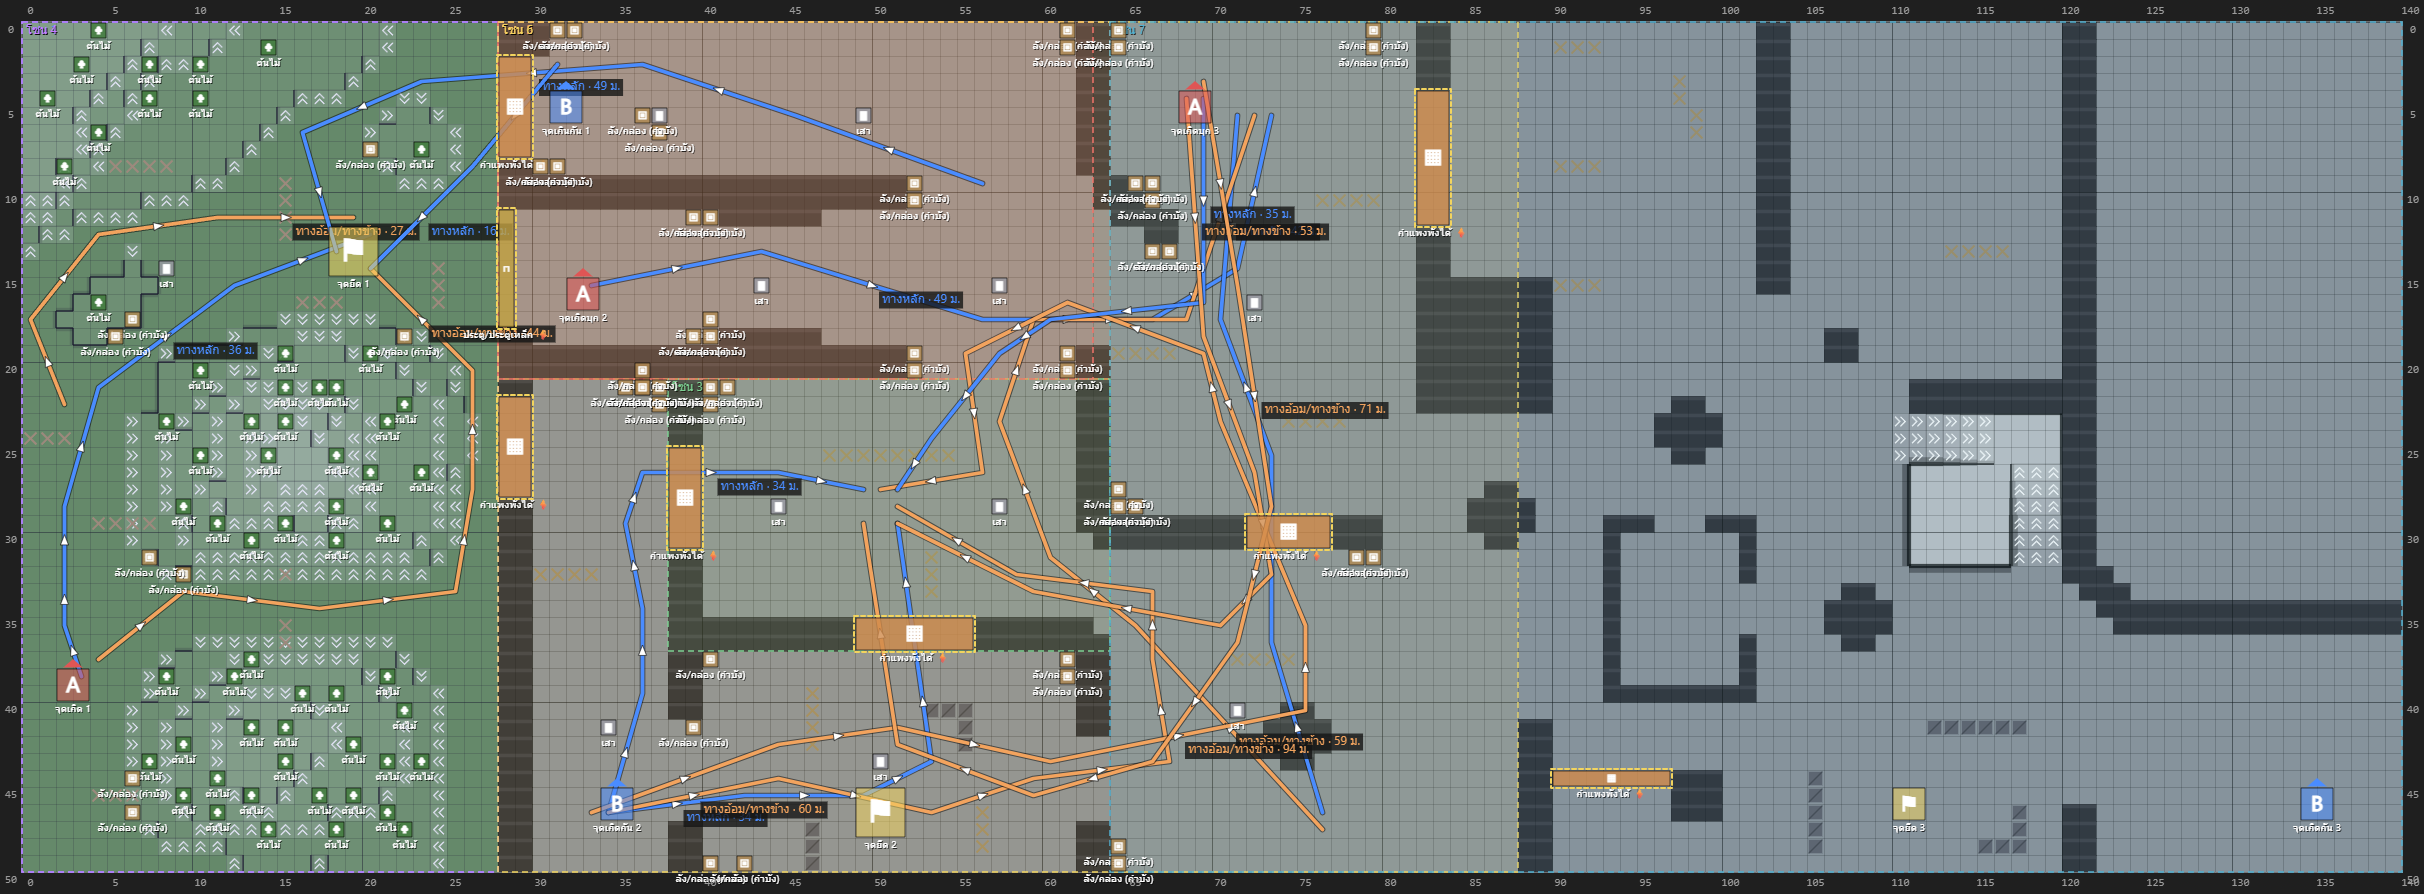
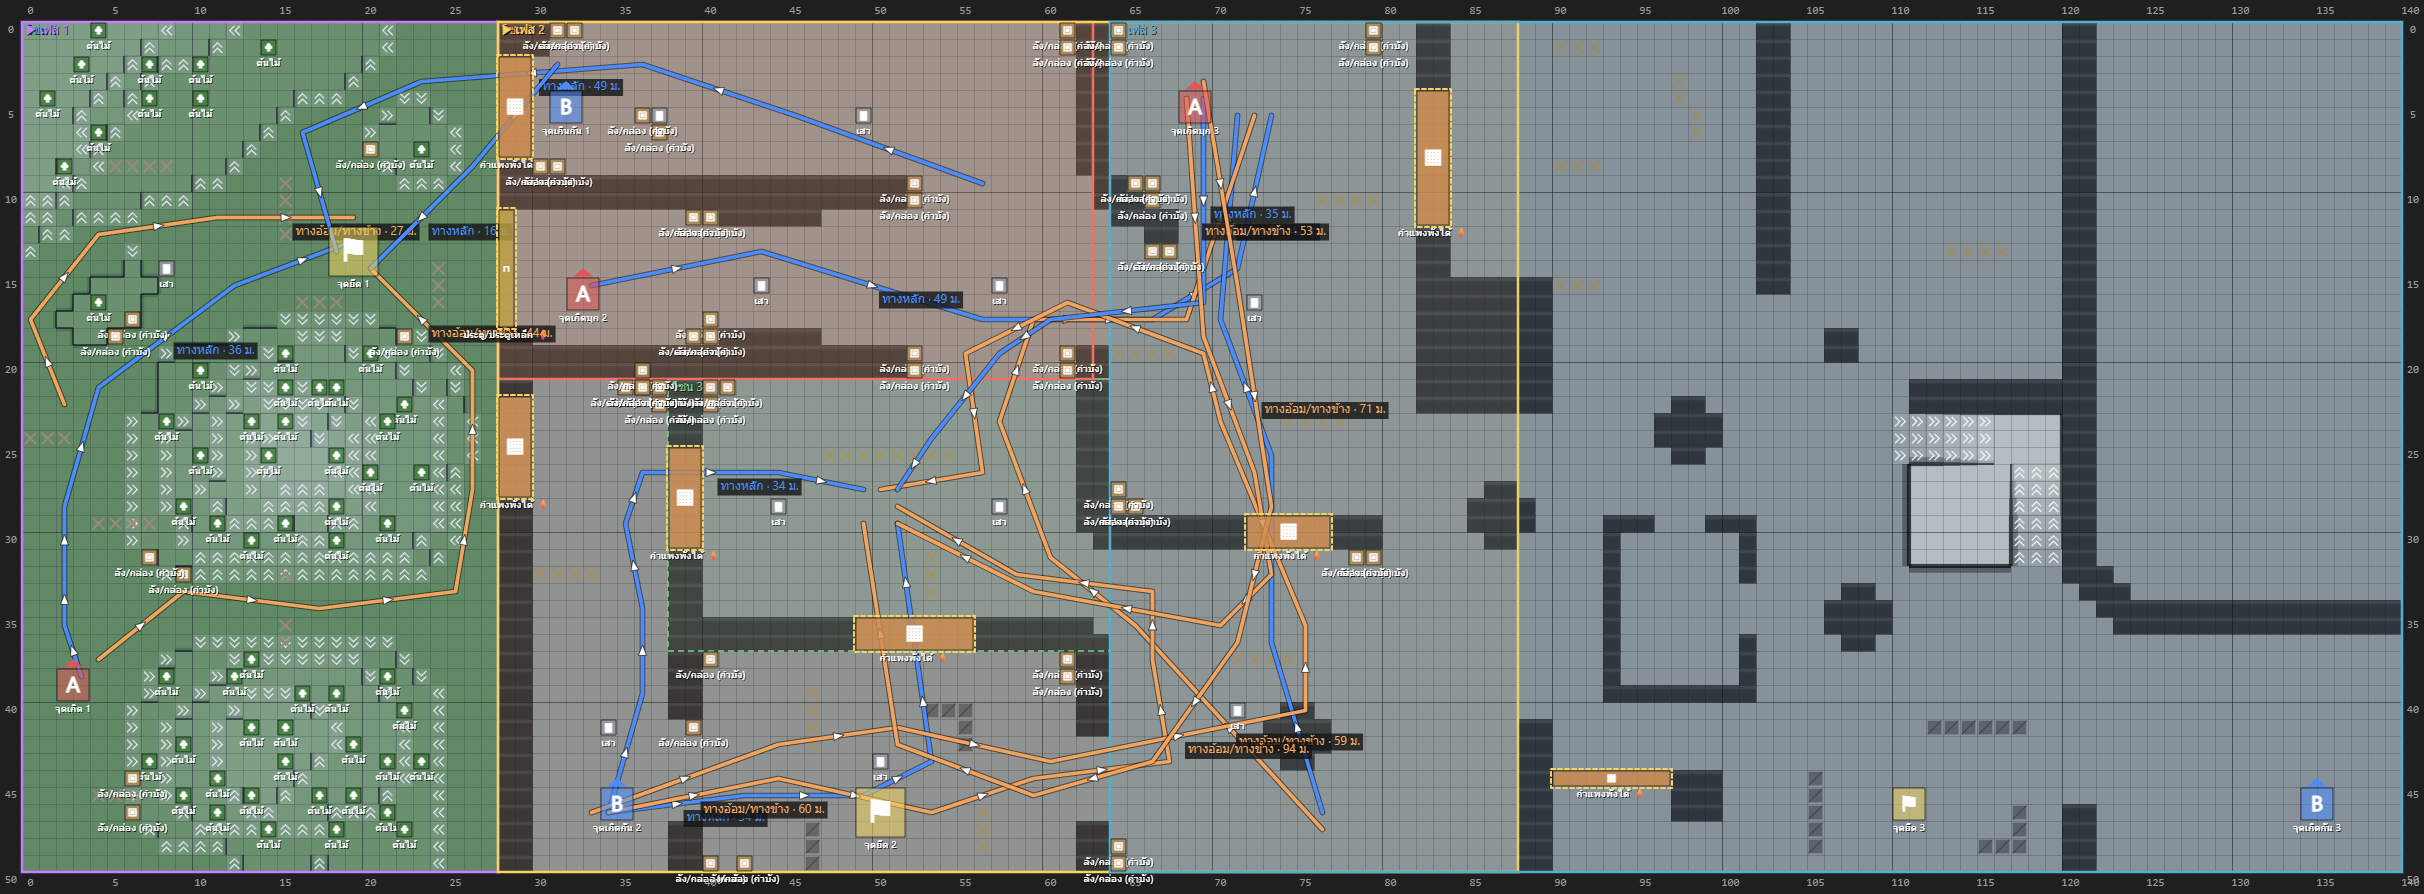
Map Editor: zone kind (phase/theme), full path pair list; tag First Castle Strike phases

diff --git a/mapedit/editor.js b/mapedit/editor.js
@@ -329,7 +329,7 @@ function analyze() {
   const pairs = [];
   for (const s of spawns) for (const g of goals) pairs.push([s, g]);
   if (!goals.length) for (let i = 0; i < spawns.length; i++) for (let j = i + 1; j < spawns.length; j++) if (spawns[i].t !== spawns[j].t) pairs.push([spawns[i], spawns[j]]);
-  r.paths = pairs.slice(0, 16).map(([a, b]) => ({ a, b,
+  r.paths = pairs.slice(0, 60).map(([a, b]) => ({ a, b,
     pre: findPath(r.pre, cellsFor(a, r.pre.blk), cellsFor(b, r.pre.blk)),
     post: findPath(r.post, cellsFor(a, r.post.blk), cellsFor(b, r.post.blk)) }));
   return r;
@@ -458,9 +458,10 @@ function render(g, z, ox, oy, VW, VH, live) {
   // zones
   if (show.zones) for (const zn of M.zones) {
     const sx = X(zn.x), sy = Y(zn.y), w = zn.w * z, h = zn.h * z, c = zn.col || ZCOL[0];
-    g.fillStyle = c + '18'; g.fillRect(sx, sy, w, h);
-    g.setLineDash([6, 4]); g.strokeStyle = c; g.lineWidth = isSel('zone', zn.id) ? 2.5 : 1.5; g.strokeRect(sx, sy, w, h); g.setLineDash([]);
-    label(g, zn.name, sx + 4, sy + 3, c, Math.max(10, Math.min(14, z * 0.7)), 'left', 'top');
+    const ph = zn.kind === 'phase'; // phase zone = which areas a Breakthrough phase plays in (solid line); theme zone = area description (dashed)
+    g.fillStyle = c + (ph ? '10' : '18'); g.fillRect(sx, sy, w, h);
+    if (!ph) g.setLineDash([6, 4]); g.strokeStyle = c; g.lineWidth = (ph ? 2.5 : 1.5) + (isSel('zone', zn.id) ? 1 : 0); g.strokeRect(sx, sy, w, h); g.setLineDash([]);
+    label(g, (ph ? '▶ ' : '') + zn.name, sx + 4, sy + 3, c, Math.max(10, Math.min(14, z * 0.7)), 'left', 'top');
     if (isSel('zone', zn.id)) handle(g, sx + w, sy + h);
   }
   // routes
@@ -1079,6 +1080,9 @@ function propObj(box, o) {
 function propZone(box, z) {
   box.append(h3('โซน — ' + z.id));
   box.append(bindIn(field('ชื่อ', `<input class="tl-in" value="${esc(z.name)}">`), z, 'name'));
+  box.append(h3('ชนิดโซน'));
+  box.append(seg([['theme', 'ธีม/คำอธิบายพื้นที่'], ['phase', '▶ พื้นที่เล่นของเฟส']], z.kind === 'phase' ? 'phase' : 'theme', v => { pushUndo(); z.kind = v; changed(); renderSide(); }));
+  box.insertAdjacentHTML('beforeend', '<p class="mut"><b>พื้นที่เล่นของเฟส</b> = ตั้งชื่อเหมือนกัน (เช่น "เฟส 1") หลายกรอบได้ เพื่อบอกว่าเฟสนั้นเล่นในพื้นที่ไหนบ้าง<br><b>ธีม</b> = บอกบรรยากาศ/หน้าที่ของพื้นที่ (เช่น Hall, ป่า) ซ้อนทับกับกรอบเฟสได้ ไม่ใช่ข้อผิดพลาด</p>');
   box.append(field('ตำแหน่ง', `<span style="font:12px var(--fu)">x ${z.x} y ${z.y} • ${z.w}×${z.h} ช่อง (${(z.w * M.cell).toFixed(0)}×${(z.h * M.cell).toFixed(0)} ม.)</span>`));
   const cr = document.createElement('div'); cr.className = 'row'; cr.innerHTML = '<label>สี</label>';
   const sg = document.createElement('div'); sg.className = 'seg';
@@ -1204,11 +1208,15 @@ function buildMD(R) {
     `- กฎเดินที่ใช้ตรวจ: ขึ้นต่างระดับได้เอง ${m.rules.up} ระดับ (มากกว่านั้นต้องมีทางลาด), ลง/กระโดดลงได้ ${m.rules.down} ระดับ, เดินทแยง ${m.rules.diag ? 'ได้' : 'ไม่ได้'}, ความเร็วอ้างอิง ${m.rules.speed} ม./วิ`, '');
   if (m.desc) L.push('## คำอธิบายจากผู้ใช้', '', m.desc, '');
   if (m.zones.length) {
-    L.push('## โซน', '', '| id | ชื่อ | x,y | ขนาด (ช่อง) | ระดับพื้น | โน้ต |', '|---|---|---|---|---|---|');
+    L.push('## โซน', '', '> ชนิด **เฟส** = พื้นที่เล่นของเฟส (ชื่อเดียวกันหลายกรอบ = เฟสนั้นเล่นหลายพื้นที่รวมกัน) • ชนิด **ธีม** = บอกบรรยากาศ/หน้าที่ของพื้นที่ (ซ้อนทับกรอบเฟสได้ตามตั้งใจ)', '');
+    const phs = {}; for (const z of m.zones) if (z.kind === 'phase') (phs[z.name] = phs[z.name] || []).push(z);
+    for (const [n, zs] of Object.entries(phs)) L.push(`- **${n}** เล่นใน: ${zs.map(z => `${z.id} (x${z.x}-${z.x + z.w - 1} y${z.y}-${z.y + z.h - 1})`).join(', ')}`);
+    if (Object.keys(phs).length) L.push('');
+    L.push('| id | ชนิด | ชื่อ | x,y | ขนาด (ช่อง) | ระดับพื้น | โน้ต |', '|---|---|---|---|---|---|---|');
     for (const z of m.zones) {
       const hs = new Set(); for (let y = z.y; y < z.y + z.h; y++) for (let x = z.x; x < z.x + z.w; x++) if (inb(x, y)) hs.add(m.height[y][x]);
       const hl = [...hs].sort((a, b) => a - b);
-      L.push(`| ${z.id} | ${z.name} | ${z.x},${z.y} | ${z.w}×${z.h} | ${hl.length > 3 ? hl[0] + '..' + hl[hl.length - 1] : hl.join(', ')} | ${(z.note || '').replace(/\n/g, ' ')} |`);
+      L.push(`| ${z.id} | ${z.kind === 'phase' ? 'เฟส' : 'ธีม'} | ${z.name} | ${z.x},${z.y} | ${z.w}×${z.h} | ${hl.length > 3 ? hl[0] + '..' + hl[hl.length - 1] : hl.join(', ')} | ${(z.note || '').replace(/\n/g, ' ')} |`);
     }
     L.push('');
   }

diff --git a/HANDOFF.md b/HANDOFF.md
@@ -164,7 +164,7 @@
 
 ## อ่านก่อนเริ่มต่อ — วิธีทำงานและสถานะล่าสุด (2026-11-02)
 
-**Map Editor (Tool ใหม่) — ล่าสุด 2026-11-08:** `mapedit.html` (+ `mapedit/editor.js`) แผนที่มุมบนสำหรับออกแบบ: วาดความสูง/ทางลาด, พื้นผิว, กำแพง, บังคับเดินได้/ห้ามเดิน, วางของ + จุด Interact (พังได้/ประตู/คันโยก…, เชื่อมกัน, ผลต่อทางเดินก่อน/หลัง), โซน, เส้นทาง, โน้ต, ภาพอ้างอิง, ตรวจทางเดิน + วัดระยะเดินจริง. บันทึกผ่าน `tools/serve.py` → `maps/<id>.json/.md/.png` + `maps/MAPS.md`. **ผู้ใช้ส่งแผนที่ = อ่าน `maps/<id>.md` แล้วเปิด `.png`** (รูปแบบ: `guides/MAP-FORMAT.md`). `maps/demo-tools` = ตัวอย่างการใช้เครื่องมือ ไม่ใช่ผังจริง. 3D Map Editor = ผู้ใช้ขอเก็บไว้ทีหลัง. Debug hook: `window.__mapedit`. ข้อจำกัด: ไม่มีพื้นซ้อนชั้น. **ทางลาด (อัปเดต 2026-11-08):** กฎ = ช่องระดับ h + ลูกศรชี้ช่อง h+1 พอดี — ไม่ตรง = ใช้ไม่ได้ (แดงบนแผนที่ + เตือนใน `.md`); โหมด "⟋ บันได" ลากล่าง→บนทำระดับ+ลูกศรให้; ปุ่ม "แก้ทิศอัตโนมัติ". แมพ `firstcastlestrike`: ไปไม่ถึงเหลือแค่ฉากนอก x122-139 y0-33 (ตั้งใจ). ถ้าเบราว์เซอร์ในแอป fetch ไฟล์ใหญ่จากพอร์ต 8765 ไม่ได้ ใช้ `wizardduel-8766` แทน
+**Map Editor (Tool ใหม่) — ล่าสุด 2026-11-08:** `mapedit.html` (+ `mapedit/editor.js`) แผนที่มุมบนสำหรับออกแบบ: วาดความสูง/ทางลาด, พื้นผิว, กำแพง, บังคับเดินได้/ห้ามเดิน, วางของ + จุด Interact (พังได้/ประตู/คันโยก…, เชื่อมกัน, ผลต่อทางเดินก่อน/หลัง), โซน, เส้นทาง, โน้ต, ภาพอ้างอิง, ตรวจทางเดิน + วัดระยะเดินจริง. บันทึกผ่าน `tools/serve.py` → `maps/<id>.json/.md/.png` + `maps/MAPS.md`. **ผู้ใช้ส่งแผนที่ = อ่าน `maps/<id>.md` แล้วเปิด `.png`** (รูปแบบ: `guides/MAP-FORMAT.md`). `maps/demo-tools` = ตัวอย่างการใช้เครื่องมือ ไม่ใช่ผังจริง. 3D Map Editor = ผู้ใช้ขอเก็บไว้ทีหลัง. Debug hook: `window.__mapedit`. ข้อจำกัด: ไม่มีพื้นซ้อนชั้น. **ทางลาด (อัปเดต 2026-11-08):** กฎ = ช่องระดับ h + ลูกศรชี้ช่อง h+1 พอดี — ไม่ตรง = ใช้ไม่ได้ (แดงบนแผนที่ + เตือนใน `.md`); โหมด "⟋ บันได" ลากล่าง→บนทำระดับ+ลูกศรให้; ปุ่ม "แก้ทิศอัตโนมัติ". แมพ `firstcastlestrike`: ไปไม่ถึงเหลือแค่ฉากนอก x122-139 y0-33 (ตั้งใจ). ถ้าเบราว์เซอร์ในแอป fetch ไฟล์ใหญ่จากพอร์ต 8765 ไม่ได้ ใช้ `wizardduel-8766` แทน **โซน:** `kind` = `phase` (พื้นที่เล่นของเฟส) / `theme` (คำอธิบาย) ซ้อนกันได้ตั้งใจ. ตำแหน่งวาง/ระยะเดินของ firstcastlestrike ตั้งใจ รอเทสในเกม
 
 **FPS / lag — ล่าสุด 2026-11-06:** ผู้ใช้บอกบางทีค้าง 20 fps ตลอด. รอบแรกแก้แล้ว (ดู OPTIMIZE §I): ปิด checkShaderErrors, ถอดร่างโค้ดซ่อน/ทรงที่ไม่ได้ใช้, F3 โชว์การ์ดจอ (เครื่องผู้ใช้มี Radeon ในตัว + RTX 3050). ค้างต่อ: shader compile กลางไฟต์, `h4Portrait` readback, draw call ตัวละคร. รอบ 2 (2026-11-06): กระสุนผู้เล่นไปตรงจุดกลางเป้า (ไม่ล็อกเป้า, ทดสอบ `shots/_aim.js`), กล้องใหม่แบบ hero shooter (`CAM_FRAMES.base` 4.7/2.05/0.25, หมุนทันที, ระยะหดทันที-คืนช้า), รูปโปรไฟล์ HUD ไม่ stall. ผู้ใช้ยังไม่ได้ลองเล่นจริง. ค้าง: shader variant ที่ warm-up ไม่ครอบ (OPTIMIZE §I), draw call ตัวละคร.
 

diff --git a/maps/firstcastlestrike.md b/maps/firstcastlestrike.md
@@ -16,15 +16,21 @@
 
 ## โซน
 
-| id | ชื่อ | x,y | ขนาด (ช่อง) | ระดับพื้น | โน้ต |
-|---|---|---|---|---|---|
-| z154 | โซน 1 | 0,0 | 28×50 | 0..5 | ป่าไม้นอกปราสาท |
-| z155 | โซน 2 | 28,0 | 36×21 | 0 | ห้องโถ่งทางเดิน |
-| z177 | โซน 3 | 38,21 | 26×16 | 0 | ห้อง Hall ต่อสู้จุดสุดท้าย |
-| z184 | โซน 4 | 0,0 | 28×50 | 0..5 | พื้นที่เล่น 1 |
-| z185 | โซน 5 | 28,0 | 35×21 | 0 | พื้นที่เล่น 1 |
-| z186 | โซน 6 | 28,0 | 60×50 | 0 | พื้นที่เล่น 2 |
-| z187 | โซน 7 | 64,0 | 76×50 | 0..6 | พื้นที่เล่น 3 |
+> ชนิด **เฟส** = พื้นที่เล่นของเฟส (ชื่อเดียวกันหลายกรอบ = เฟสนั้นเล่นหลายพื้นที่รวมกัน) • ชนิด **ธีม** = บอกบรรยากาศ/หน้าที่ของพื้นที่ (ซ้อนทับกรอบเฟสได้ตามตั้งใจ)
+
+- **เฟส 1** เล่นใน: z184 (x0-27 y0-49), z185 (x28-62 y0-20)
+- **เฟส 2** เล่นใน: z186 (x28-87 y0-49)
+- **เฟส 3** เล่นใน: z187 (x64-139 y0-49)
+
+| id | ชนิด | ชื่อ | x,y | ขนาด (ช่อง) | ระดับพื้น | โน้ต |
+|---|---|---|---|---|---|---|
+| z154 | ธีม | โซน 1 | 0,0 | 28×50 | 0..5 | ป่าไม้นอกปราสาท |
+| z155 | ธีม | โซน 2 | 28,0 | 36×21 | 0 | ห้องโถ่งทางเดิน |
+| z177 | ธีม | โซน 3 | 38,21 | 26×16 | 0 | ห้อง Hall ต่อสู้จุดสุดท้าย |
+| z184 | เฟส | เฟส 1 | 0,0 | 28×50 | 0..5 | พื้นที่เล่น 1 |
+| z185 | เฟส | เฟส 1 | 28,0 | 35×21 | 0 | พื้นที่เล่น 1 |
+| z186 | เฟส | เฟส 2 | 28,0 | 60×50 | 0 | พื้นที่เล่น 2 |
+| z187 | เฟส | เฟส 3 | 64,0 | 76×50 | 0..6 | พื้นที่เล่น 3 |
 
 ## ของ / สิ่งก่อสร้าง
 
@@ -266,6 +272,8 @@
 - จุดเกิดบุก 2 (จุดเกิดฝ่ายบุก) → จุดยึด 3 (จุดยึด/ธง): ก่อน Interact 90 ม. ~14.9 วิ • หลัง 90 ม. ~14.9 วิ
 - จุดเกิดบุก 2 (จุดเกิดฝ่ายบุก) → จุดยึด 2 (จุดยึด/ธง): ก่อน Interact 64 ม. ~10.6 วิ • หลัง 47 ม. ~7.9 วิ
 - จุดเกิดบุก 3 (จุดเกิดฝ่ายบุก) → จุดยึด 1 (จุดยึด/ธง): ก่อน Interact ไปไม่ถึง • หลัง 57 ม. ~9.6 วิ
+- จุดเกิดบุก 3 (จุดเกิดฝ่ายบุก) → จุดยึด 3 (จุดยึด/ธง): ก่อน Interact 63 ม. ~10.5 วิ • หลัง 63 ม. ~10.5 วิ
+- จุดเกิดบุก 3 (จุดเกิดฝ่ายบุก) → จุดยึด 2 (จุดยึด/ธง): ก่อน Interact 59 ม. ~9.8 วิ • หลัง 49 ม. ~8.2 วิ
 
 ## กริดความสูง (ระดับ)
 

diff --git a/notes/CHANGELOG.md b/notes/CHANGELOG.md
@@ -1,5 +1,7 @@
 # Changelog (newest first in the 2026-10-19+ entries, then oldest → newest)
 
+- 2026-11-08 — **Map Editor: ชนิดโซน เฟส/ธีม** โซนมี `kind` (`phase` = พื้นที่เล่นของเฟส เส้นทึบ + ▶, ชื่อเดียวกันหลายกรอบได้; `theme` = คำอธิบายพื้นที่ เส้นประ) → `.md` สรุป "เฟส N เล่นใน …" + ตารางมีคอลัมน์ชนิด; ตัวตรวจระยะเดินแสดงถึง 60 คู่ (เดิมตัดที่ 16). แมพ `firstcastlestrike`: z184-187 เป็นเฟส 1/1/2/3. เฟส 3: บุก 3→ยึด 3 = 63 ม. ~10.5 วิ vs รับ 3→ยึด 3 = 23 ม. ~3.8 วิ (ตำแหน่งวางตั้งใจ รอเทสในเกม)
+
 - 2026-11-08 — **Map Editor: ทางลาด/บันไดใช้ง่ายขึ้น + แก้แผนที่ First Castle Strike** ปัญหา: ลูกศรทางลาดต้องชี้ช่องที่สูง +1 พอดี แต่เครื่องมือไม่เตือน วาดผิดแล้วเนิน/แท่นเดินขึ้นไม่ได้ (872 ช่องใช้ไม่ได้). เพิ่ม: โหมด "⟋ บันได" (ลากจากล่างขึ้นบน ได้ระดับ+ลูกศรอัตโนมัติ มีตัวเลขพรีวิว), ทางลาดหมุนชี้ช่องสูงกว่าเองตอนระบาย, ช่องทางลาดใช้ไม่ได้ขึ้นแดง + เตือนในแผงตรวจ/`.md`, ปุ่ม "แก้ทิศอัตโนมัติ"/"ลบอันที่ยังใช้ไม่ได้". แผนที่: แก้ทางลาดเนินป่า, ไล่ระดับบันไดแท่น E/G → เหลือไปไม่ถึงแค่ฉากนอก (x122-139 y0-33). ไฟล์: `mapedit/editor.js`, `guides/MAP-FORMAT.md`, `maps/firstcastlestrike.*`
 
 - 2026-11-08 — **Map Editor (Tool ใหม่)** `mapedit.html` แผนที่มุมบน: ความสูง/ทางลาด, พื้นผิว, กำแพง, เดินได้/ห้ามเดิน, วางของ, จุด Interact (เชื่อมกันได้ + ผลก่อน/หลัง), โซน, เส้นทาง, โน้ต, ภาพอ้างอิง, ตรวจทางเดิน/วัดระยะ • บันทึก `maps/<id>.json/.md/.png` ให้ Claude อ่าน (`guides/MAP-FORMAT.md`) • serve.py เพิ่ม `/api/map*`.

diff --git a/maps/MAPS.md b/maps/MAPS.md
@@ -3,5 +3,5 @@
 > เขียนอัตโนมัติจาก `mapedit.html` (ศูนย์รวม Tool → Map Editor). แต่ละแผนที่มี `maps/<id>.md` (อ่านก่อน — ตาราง ของ/Interact/เส้นทาง/ผลตรวจทางเดิน + กริด ASCII), `maps/<id>.png` (ภาพ topdown เปิดด้วย Read) และ `maps/<id>.json` (ข้อมูลดิบ — รูปแบบใน `guides/MAP-FORMAT.md`).
 > แผนที่ในนี้เป็น **ภาพอ้างอิง/แบบร่าง** ไม่ใช่ผังที่ล็อกแล้ว เว้นแต่ผู้ใช้เขียนไว้ในคำอธิบาย.
 
-- **First Castle Strike** (`firstcastlestrike`) 140×50 ช่อง — `maps/firstcastlestrike.md` • `maps/firstcastlestrike.png` • แก้ล่าสุด 2026-11-08 22:23
+- **First Castle Strike** (`firstcastlestrike`) 140×50 ช่อง — `maps/firstcastlestrike.md` • `maps/firstcastlestrike.png` • แก้ล่าสุด 2026-11-08 22:29
 - **ตัวอย่างเครื่องมือ** (`demo-tools`) 48×32 ช่อง — `maps/demo-tools.md` • `maps/demo-tools.png` • แก้ล่าสุด 2026-11-08 20:26
